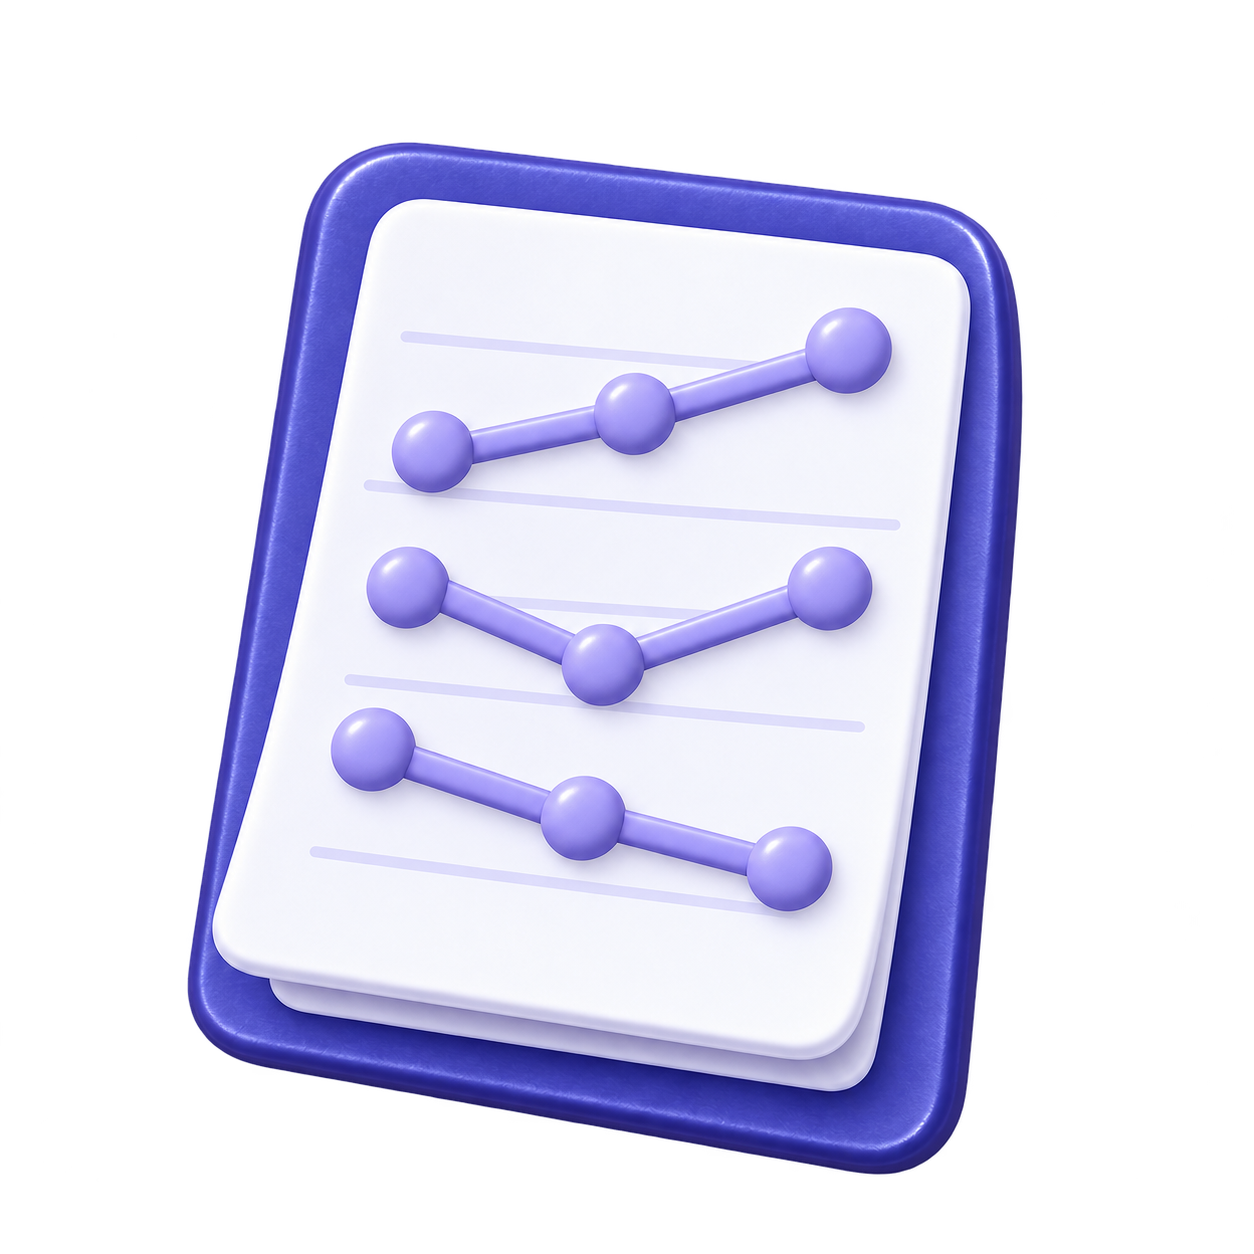
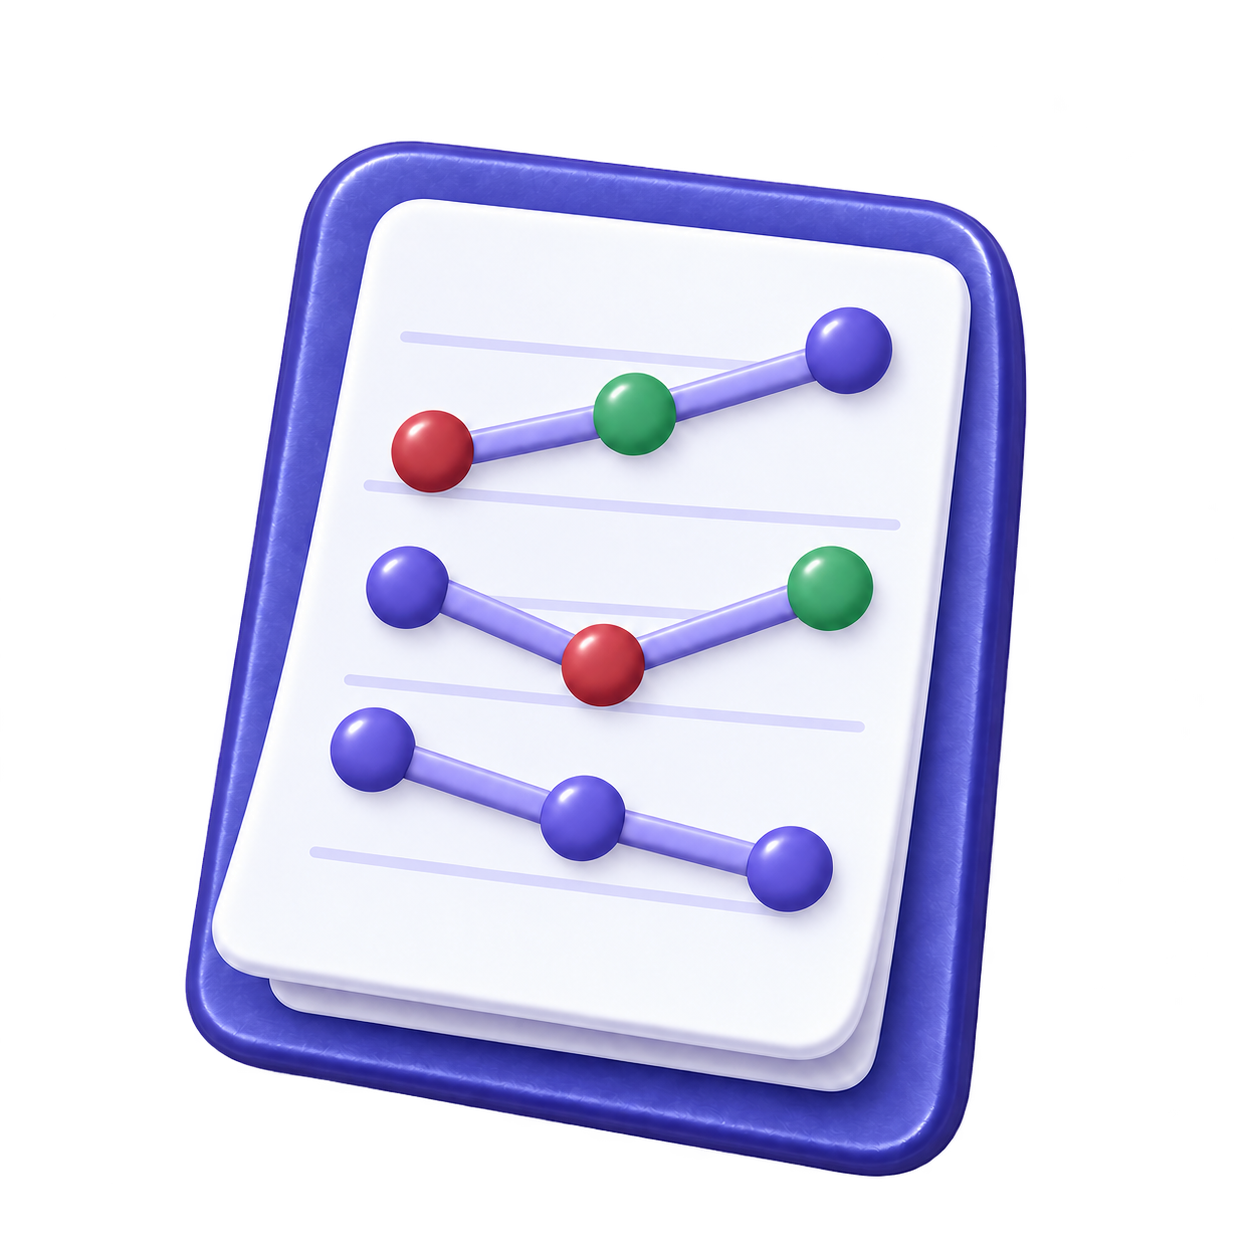
Update summary illustration with red green and purple dots

diff --git a/src/main.js b/src/main.js
@@ -21,7 +21,7 @@ const source=(i)=>`/reports/${i===0?'march':'september'}.html`;
 function chart(m){let y=v=>126-v/m.max*104;return `<svg class="chart" viewBox="0 0 440 165" role="img" aria-label="${m.name}: ${fmt(m.values[0])} in March, ${fmt(m.values[1])} in September. Lab's reference range ${fmt(m.range[0])} to ${fmt(m.range[1])} ${m.unit}."><rect x="64" y="${y(m.range[1])}" width="326" height="${y(m.range[0])-y(m.range[1])}" fill="#e6f0f1"/><line x1="64" y1="${y(m.range[1])}" x2="390" y2="${y(m.range[1])}" stroke="#8baeb7" stroke-dasharray="4 4"/><text x="60" y="${y(m.range[1])+4}" text-anchor="end">${fmt(m.range[1])}</text><text x="60" y="${y(m.range[0])+4}" text-anchor="end">${fmt(m.range[0])}</text><path d="M 104 ${y(m.values[0])} L 346 ${y(m.values[1])}" fill="none" stroke="#176889" stroke-width="3"/>${m.values.map((v,i)=>`<circle cx="${i?346:104}" cy="${y(v)}" r="5" fill="#176889"/><text x="${i?346:104}" y="${y(v)-13}" text-anchor="middle" class="point-label">${fmt(v)}</text>`).join('')}<text x="104" y="155" text-anchor="middle">12 Mar 2025</text><text x="346" y="155" text-anchor="middle">18 Sep 2025</text></svg>`;}
 document.querySelector('#app').innerHTML=`
 <header class="topbar"><a class="brand" href="/" aria-label="HealthStats home">${animatedLogo()}</a>${import.meta.env.DEV?'<span class="sample-tag">Build preview</span>':''}</header>
-<main><nav class="view-tabs" aria-label="Main navigation"><button type="button" id="home-tab" aria-pressed="true" aria-current="page">${homeIcon('home')}<span>Home</span></button><button type="button" id="reports-tab" aria-pressed="false">${homeIcon('reports')}<span>Reports</span></button><button type="button" id="summary-tab" aria-pressed="false">${homeIcon('summary')}<span>Summary</span></button><button type="button" id="profile-tab" aria-pressed="false">${homeIcon('profile')}<span>Profile</span></button></nav><section class="intro"><div class="summary-title-with-art health-page-heading"><img class="summary-heading-art health-page-heading-art" src="/images/summary-trendlines.png" alt="" width="88" height="88" decoding="async"><div><h1 id="page-title">Bring your reports together.</h1><p id="page-description">Keep the originals ready for your next doctor visit.</p></div></div><button class="primary" id="print" hidden><svg width="18" height="18" viewBox="0 0 24 24" fill="none" stroke="currentColor" stroke-width="1.7" aria-hidden="true"><path d="M7 8V3h10v5M7 17H4V9h16v8h-3M7 14h10v7H7z"/></svg>Print summary</button></section>
+<main><nav class="view-tabs" aria-label="Main navigation"><button type="button" id="home-tab" aria-pressed="true" aria-current="page">${homeIcon('home')}<span>Home</span></button><button type="button" id="reports-tab" aria-pressed="false">${homeIcon('reports')}<span>Reports</span></button><button type="button" id="summary-tab" aria-pressed="false">${homeIcon('summary')}<span>Summary</span></button><button type="button" id="profile-tab" aria-pressed="false">${homeIcon('profile')}<span>Profile</span></button></nav><section class="intro"><div class="summary-title-with-art health-page-heading"><img class="summary-heading-art health-page-heading-art" src="/images/summary-trendlines.png?v=colored-dots" alt="" width="88" height="88" decoding="async"><div><h1 id="page-title">Bring your reports together.</h1><p id="page-description">Keep the originals ready for your next doctor visit.</p></div></div><button class="primary" id="print" hidden><svg width="18" height="18" viewBox="0 0 24 24" fill="none" stroke="currentColor" stroke-width="1.7" aria-hidden="true"><path d="M7 8V3h10v5M7 17H4V9h16v8h-3M7 14h10v7H7z"/></svg>Print summary</button></section>
 <div id="home-view"></div><div id="uploads-view" hidden></div><div id="summary-view" hidden></div><div id="profile-view" hidden></div><div id="sample-view" hidden><div class="demo-note"><strong>You’re viewing sample data.</strong> These fictional reports show how your summary will work. Upload your own reports in My reports. They are not used in this sample.</div>
 <article class="summary"><div class="summary-heading"><div><h2>Blood report summary</h2><p>12 March – 18 September 2025</p></div><div class="report-count"><strong>2</strong> reports compared</div></div>
 <div class="context"><div><span>Patient</span><strong>Sample patient</strong></div><div><span>Included tests</span><strong>WBC and CRP</strong></div><div><span>Source documents</span><strong>2 fictional blood reports</strong></div></div>
